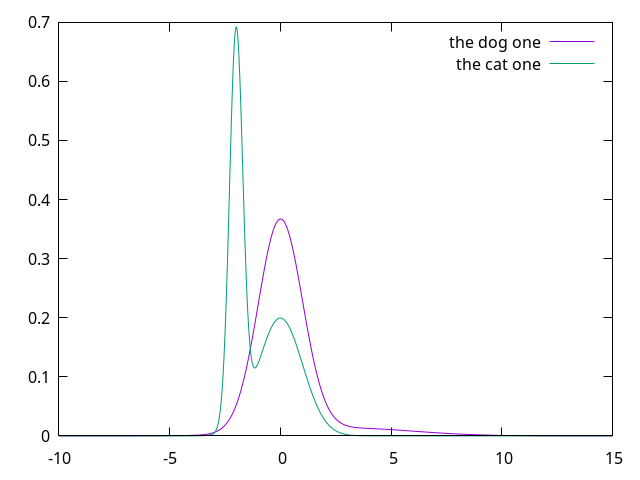
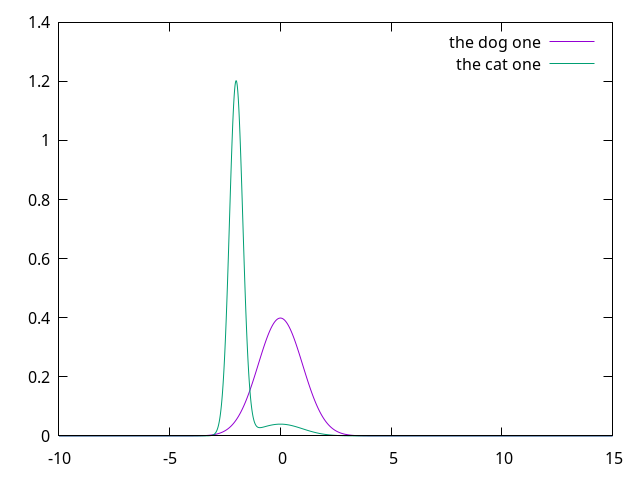
made function weights automatically calculate so that the inputed weight in addFactor is the percentage of total weight that the inputed function should have

diff --git a/index.py b/index.py
@@ -14,7 +14,7 @@ h = 60#unused
 w = 10
 
 samples = 5000
-pngTerminal = False
+pngTerminal = True
 if pngTerminal:
     GPterminal = "pngcairo"
     GPoutput = "graph.png"
@@ -30,7 +30,7 @@ plane = gp.Gnuplot(terminal = f'{GPterminal} ',
 plane.cmd(f'set samples {samples}')
 
 def normal(mu=0, sigma=1,x=x):
-    return 1/(sigma*m.sqrt(2*m.pi))* exp(-0.5*((x-mu)/sigma)**2)
+    return 1/(sigma*m.sqrt(2*m.pi))* exp(-0.5*((x - mu)/sigma)**2)
 
 functionIterator = 1
 
@@ -60,26 +60,21 @@ class axis:
 
         self.subject = subject
         self.factors = factors
-    def resetDefine(self):
+    def define(self):
         self.rule = averageNormals(self.factors)
         self.densityRule = self.rule
         self.cumulativeRule = integrate(self.rule,(x,-oo,x))
-    def define(self):
         plane.cmd(f'{self.subject}(x) = {self.rule}')
     def setRule(self):
         self.rule = averageNormals(self.factors)
     def addFactor(self, function, weight):
+        for curve in self.factors:
+            curve[1] -= weight/len(self.factors)
         self.factors.append([function, weight])
-        self.resetDefine()
+
+        self.define()
 
 
-glob = normalContainer()
-glob.addNormal()
-glob.addNormal(5,3,"f2")
-glob.addNormal(-2,0.3)
-glob.addNormal()
-
-#f4 = normal
 
 def averageNormals(inputs):
     #input should be a list of  functions
@@ -103,17 +98,29 @@ def jointNormalsProbilty(inputs, lower_limit=-oo, upper_limit=x):
     return diff(ouput)
 
 
+glob = normalContainer()
+glob.addNormal(cause="COcats")
+glob.addNormal(cause="COdogs")
+glob.addNormal(-2,0.3)
+glob.addNormal()
+
+#f4 = normal
+#define axes
+dogaxis = axis("dogs", [[glob.normals["COdogs"],1]])
+dogaxis.define()
+
+cataxis = axis("cats", [[glob.normals["COcats"],1.0]])
+
+cataxis.addFactor(glob.normals["f1"],0.9)
+print(cataxis.factors[0][1])
+cataxis.define()
+
+
 
     #on a scale from -1 to 1
     # posibly the merger of multiple gausian functions.
 
-#define axes
-dogaxis = axis("dogs", [[glob.normals["f1"],0.9], [glob.normals["f2"],0.1]])
-dogaxis.define()
 
-cataxis = axis("cats", [[glob.normals["f3"],0.5]])
-cataxis.addFactor(glob.normals["f4"],0.5)
-cataxis.define()
 
 #plane.cmd(f'a(x) = {dogaxis.cumulativeRule}')
 #this is debug thing really
